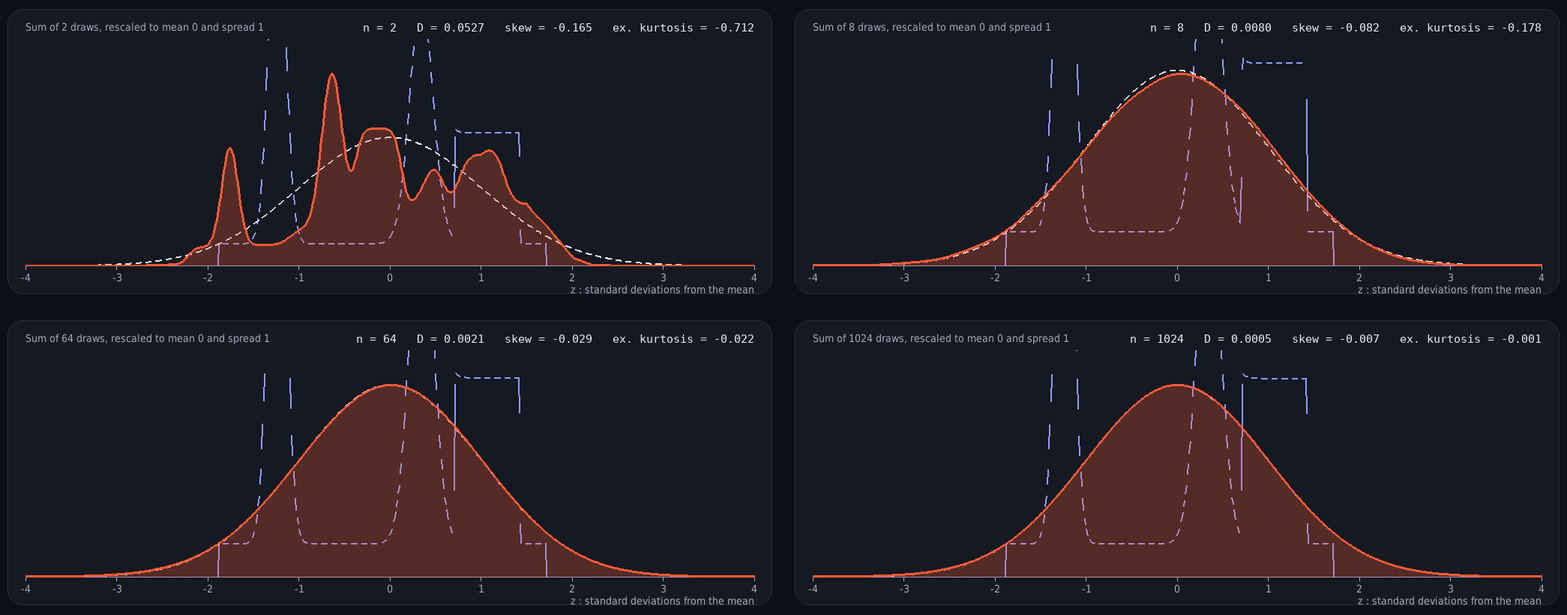
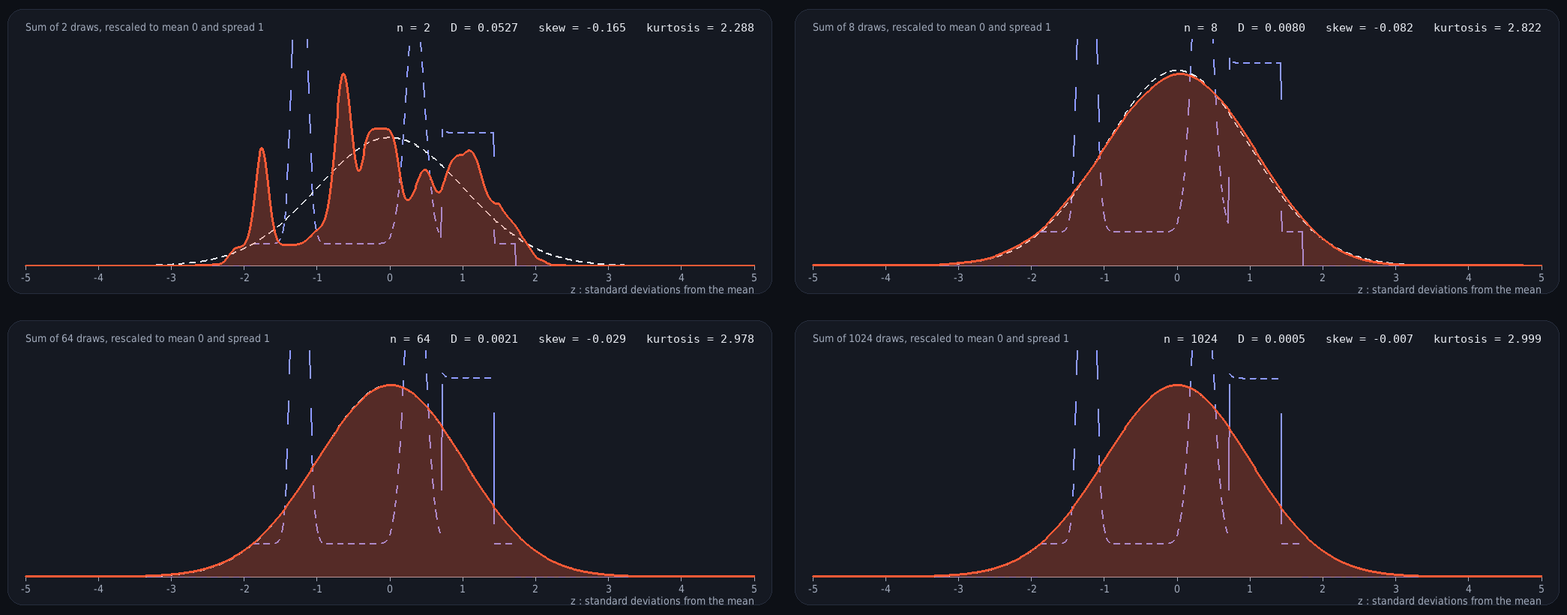
minor kurtosis calculation fix, changed defaults, expanded window

diff --git a/clt_draw/core.py b/clt_draw/core.py
@@ -1,7 +1,7 @@
 """The mathematics of clt-draw, with no user interface.
 
 You supply a curve (non-negative values on an evenly spaced grid). It is treated as a probability
-density and discretised onto a *lattice* of ``LATTICE`` points, so that every random variable below
+density and discretized onto a *lattice* of ``LATTICE`` points, so that every random variable below
 takes values k = 0, 1, ..., LATTICE - 1 with probabilities p[k].
 
 Sums are never sampled. The probability mass function (pmf) of a sum of independent draws is the
@@ -9,7 +9,7 @@ convolution of the individual pmfs, so we compute it exactly. To save work we on
 
     pmf of n draws   =   (pmf of n/2 draws)  convolved with itself          n = 2, 4, 8, ..., 1024
 
-which is 10 FFT convolutions in total instead of 1023 for n = 1024. Each pmf is then standardised
+which is 10 FFT convolutions in total instead of 1023 for n = 1024. Each pmf is then standardized
 (mean 0, standard deviation 1) so that every n can be drawn on the same axes and compared with the
 standard normal curve.
 """
@@ -22,8 +22,8 @@ import numpy as np
 
 LATTICE = 1024           # points the drawn curve is resampled to
 LEVELS = 10              # n = 2**1 ... 2**10
-Z_MAX = 4.0              # the plot shows z in [-Z_MAX, Z_MAX]
-Z_POINTS = 801           # samples of each density across that range
+Z_MAX = 5.0              # the plot shows z in [-Z_MAX, Z_MAX]
+Z_POINTS = 1001          # samples of each density across that range
 MIN_COLUMNS = 20         # a curve must cover at least this many of the drawing columns
 
 Z_GRID = np.linspace(-Z_MAX, Z_MAX, Z_POINTS)
@@ -31,13 +31,13 @@ Z_GRID = np.linspace(-Z_MAX, Z_MAX, Z_POINTS)
 
 @dataclass
 class Level:
-    """The standardised sum of ``n`` independent draws from the user's density."""
+    """The standardized sum of ``n`` independent draws from the user's density."""
 
     n: int
     density: np.ndarray      # density of Z_n at Z_GRID
     ks: float                # Kolmogorov distance to the standard normal, sup |F_n - Phi|
     skew: float              # skewness (the normal has 0)
-    excess_kurtosis: float   # excess kurtosis (the normal has 0)
+    kurtosis: float          # kurtosis, E[Z^4] (the normal has 3)
 
 
 def normal_pdf(z: np.ndarray) -> np.ndarray:
@@ -84,8 +84,8 @@ def convolve_with_itself(pmf: np.ndarray) -> np.ndarray:
     return out / out.sum()
 
 
-def _standardised_level(pmf: np.ndarray, n: int, mean_idx: float, std_idx: float) -> Level:
-    """Standardise the pmf of a sum of n draws and measure how normal it is."""
+def _standardized_level(pmf: np.ndarray, n: int, mean_idx: float, std_idx: float) -> Level:
+    """Standardize the pmf of a sum of n draws and measure how normal it is."""
     k = np.arange(pmf.size)
     scale = std_idx * np.sqrt(n)                     # lattice units per unit of z
     z = (k - n * mean_idx) / scale
@@ -97,12 +97,12 @@ def _standardised_level(pmf: np.ndarray, n: int, mean_idx: float, std_idx: float
     ks = float(max(np.abs(cdf - phi).max(), np.abs(cdf - pmf - phi).max()))   # both sides of each jump
 
     skew = float(np.dot(pmf, z ** 3))
-    kurt = float(np.dot(pmf, z ** 4)) - 3.0
-    return Level(n=n, density=density, ks=ks, skew=skew, excess_kurtosis=kurt)
+    kurt = float(np.dot(pmf, z ** 4))
+    return Level(n=n, density=density, ks=ks, skew=skew, kurtosis=kurt)
 
 
 def iter_levels(values: np.ndarray, levels: int = LEVELS) -> Iterator[Level]:
-    """Yield the standardised sum for n = 1 (the curve itself), then n = 2, 4, ..., 2**levels.
+    """Yield the standardized sum for n = 1 (the curve itself), then n = 2, 4, ..., 2**levels.
 
     A generator, so a UI can draw each result as soon as it exists.
     """
@@ -114,10 +114,10 @@ def iter_levels(values: np.ndarray, levels: int = LEVELS) -> Iterator[Level]:
     if std_idx == 0:
         raise ValueError("the curve has zero spread")
 
-    yield _standardised_level(pmf, 1, mean_idx, std_idx)
+    yield _standardized_level(pmf, 1, mean_idx, std_idx)
     for lvl in range(1, levels + 1):
         pmf = convolve_with_itself(pmf)             # n/2 draws + n/2 draws  ->  n draws
-        yield _standardised_level(pmf, 2 ** lvl, mean_idx, std_idx)
+        yield _standardized_level(pmf, 2 ** lvl, mean_idx, std_idx)
 
 
 def compute_levels(values: np.ndarray, levels: int = LEVELS) -> list[Level]:

diff --git a/clt_draw/app.py b/clt_draw/app.py
@@ -62,7 +62,7 @@ class App:
         self.rail_y = 650
         self.chart_rect = pygame.Rect(676, 580, 384, 156)
 
-        self.show_normal, self.show_original = True, True
+        self.show_normal, self.show_original = False, False      # both off until you ask for them
         self.reset()
 
     # ---------------------------------------------------------------- state
@@ -227,6 +227,7 @@ class App:
         pygame.display.flip()
 
     def _draw_drawing_phase(self) -> None:
+        self._draw_axis("x")
         drawn = np.flatnonzero(~np.isnan(self.cols))
         if drawn.size == 0:
             self._text(self.f_body, "Drag to draw a curve above the baseline. It becomes your probability density.",
@@ -245,12 +246,15 @@ class App:
     def _z_to_px(self, z):
         return self.x0 + (np.asarray(z) + Z_MAX) / (2 * Z_MAX) * (self.x1 - self.x0)
 
-    def _draw_locked_phase(self) -> None:
-        for z in range(-4, 5):                                        # axis ticks
+    def _draw_axis(self, caption: str) -> None:
+        for z in range(-int(Z_MAX), int(Z_MAX) + 1):                    # ticks at -5 ... 5
             px = float(self._z_to_px(z))
             pygame.draw.line(self.screen, SOFT, (px, self.base), (px, self.base + 5), 1)
             self._text(self.f_small, f"{z}", (px, self.base + 8), SOFT, "midtop")
-        self._text(self.f_small, "z : standard deviations from the mean", (self.x1, self.base + 24), SOFT, "topright")
+        self._text(self.f_small, caption, (self.x1, self.base + 24), SOFT, "topright")
+
+    def _draw_locked_phase(self) -> None:
+        self._draw_axis("z : standard deviations from the mean")
 
         if not self.ready:
             done = max(len(self.levels) - 1, 0)
@@ -274,7 +278,7 @@ class App:
         lv = self.levels[self.sel + 1]
         self._text(self.f_small, f"Sum of {lv.n} draws, rescaled to mean 0 and spread 1",
                    (PLOT.left + 24, PLOT.top + 16), SOFT)
-        self._text(self.f_mono, f"n = {lv.n}   D = {lv.ks:.4f}   skew = {lv.skew:+.3f}   ex. kurtosis = {lv.excess_kurtosis:+.3f}",
+        self._text(self.f_mono, f"n = {lv.n}   D = {lv.ks:.4f}   skew = {lv.skew:+.3f}   kurtosis = {lv.kurtosis:.3f}",
                    (PLOT.right - 24, PLOT.top + 16), TEXT, "topright")
 
     def _draw_rail(self) -> None:

diff --git a/tests/test_core.py b/tests/test_core.py
@@ -29,7 +29,7 @@ def test_doubling_matches_direct_repeated_convolution():
 def test_two_uniform_draws_give_the_triangle():
     levels = compute_levels(np.ones(LATTICE), levels=1)
     peak = levels[1].density.max()
-    # Two uniforms, standardised, make a triangle on [-sqrt(6), sqrt(6)] whose peak is 1/sqrt(6).
+    # Two uniforms, standardized, make a triangle on [-sqrt(6), sqrt(6)] whose peak is 1/sqrt(6).
     assert peak == pytest.approx(1 / np.sqrt(6), rel=2e-3)
     assert levels[1].density[0] == 0.0 and levels[1].density[-1] == 0.0
 
@@ -39,7 +39,7 @@ def test_levels_cover_powers_of_two():
     assert [lv.n for lv in levels] == [1] + [2 ** i for i in range(1, LEVELS + 1)]
 
 
-def test_every_standardised_density_integrates_to_one():
+def test_every_standardized_density_integrates_to_one():
     for lv in compute_levels(lumpy()):
         area = np.sum((lv.density[1:] + lv.density[:-1]) / 2 * np.diff(Z_GRID))   # trapezoid rule
         assert area == pytest.approx(1.0, abs=0.02)
@@ -47,11 +47,11 @@ def test_every_standardised_density_integrates_to_one():
 
 def test_skewness_and_kurtosis_scale_exactly():
     levels = compute_levels(lumpy())
-    s1, k1 = levels[0].skew, levels[0].excess_kurtosis
+    s1, k1 = levels[0].skew, levels[0].kurtosis
     for lv in levels[1:]:
-        # exact in theory; the absolute slack covers FFT round-off once the values are ~1e-3
+        # exact in theory (cumulants add); the absolute slack covers FFT round-off once the values are ~1e-3
         assert lv.skew == pytest.approx(s1 / np.sqrt(lv.n), rel=1e-5, abs=1e-7)
-        assert lv.excess_kurtosis == pytest.approx(k1 / lv.n, rel=1e-5, abs=1e-7)
+        assert lv.kurtosis - 3 == pytest.approx((k1 - 3) / lv.n, rel=1e-5, abs=1e-7)
 
 
 def test_distance_to_normal_shrinks_and_ends_small():

diff --git a/README.md b/README.md
@@ -28,19 +28,19 @@ Needs Python 3.9+, `numpy` and `pygame`.
 | **Submit curve** (or Enter) | Lock the curve in and precompute every n |
 | Click a tick, or ← / → | Choose n = 2, 4, 8, 16, 32, 64, 128, 256, 512, 1024 |
 | **Redraw** (or Esc / R) | Start over |
-| Check boxes | Show or hide the standard normal curve and your original curve |
+| Check boxes | Show the standard normal curve and your original curve (both off by default) |
 
-The readout shows the Kolmogorov distance **D** to the normal curve, plus skewness and excess
-kurtosis (both 0 for a normal). The small chart plots D against n on a log scale with a dashed
+The readout shows the Kolmogorov distance **D** to the normal curve, plus skewness and kurtosis
+(0 and 3 for a normal curve). The small chart plots D against n on a log scale with a dashed
 1/√n guide.
 
 ## How it works
 
 **Your curve becomes a lattice distribution.** The curve is resampled to $M = 1024$ evenly spaced
-points and normalised so the values $p_0,\dots,p_{M-1}$ sum to 1. That is the probability mass
+points and normalized so the values $p_0,\dots,p_{M-1}$ sum to 1. That is the probability mass
 function of one draw $X$, taking the values $k = 0, 1, \dots, M-1$.
 
-**Sums are exact, not sampled.** For independent draws, the mass function of a sum is the
+**Sums are exact.** For independent draws, the mass function of a sum is the
 convolution of the individual ones:
 
 $$P(X_1 + X_2 = s) = \sum_k p_k\, p_{s-k} = (p * p)_s .$$
@@ -58,7 +58,7 @@ $$\widehat{p^{*2n}} = \big(\widehat{p^{*n}}\big)^{2}.$$
 
 The result is exact up to the 1024-point lattice and floating-point round-off.
 
-**Standardise so every n fits on one axis.** A sum of $n$ draws has mean $n\mu$ and standard deviation
+**Standardize so every n fits on one axis.** A sum of $n$ draws has mean $n\mu$ and standard deviation
 $\sigma\sqrt n$, so it keeps spreading out. Rescaling,
 
 $$Z_n = \frac{S_n - n\mu}{\sigma\sqrt n}, \qquad g_n(z) = \sigma\sqrt n \; P(S_n = k)\Big|_{z = (k - n\mu)/(\sigma\sqrt n)},$$
@@ -74,18 +74,19 @@ $$D_n = \sup_z \lvert F_n(z) - \Phi(z) \rvert,$$
 
 and the Berry–Esseen theorem bounds it by $C\,\rho/(\sigma^3\sqrt n)$ with $\rho = \mathbb E|X-\mu|^3$,
 which is why the dashed guide in the chart falls like $1/\sqrt n$. Cumulants add under independent
-sums, so skewness and excess kurtosis shrink *exactly* like
+sums, so skewness $\gamma$ shrinks *exactly* like $1/\sqrt n$, and kurtosis $\beta$ approaches its normal
+value of 3 *exactly* like $1/n$:
 
-$$\gamma_n = \frac{\gamma_1}{\sqrt n}, \qquad \kappa_n = \frac{\kappa_1}{n},$$
+$$\gamma_n = \frac{\gamma_1}{\sqrt n}, \qquad \beta_n - 3 = \frac{\beta_1 - 3}{n},$$
 
 and the code checks that in its tests.
 
 ## Project layout
 
 ```
-clt_draw/core.py   the mathematics: lattice, doubling convolution, standardising, distances (numpy only)
+clt_draw/core.py   the mathematics: lattice, doubling convolution, standardizing, distances (numpy only)
 clt_draw/app.py    the Pygame interface
-tests/             pytest suite for the core (doubling vs. direct convolution, exact skew/kurtosis scaling, ...)
+tests/             pytest suite for the core (doubling vs. direct convolution, exact skewness/kurtosis scaling, ...)
 docs/              screenshots
 ```
 
